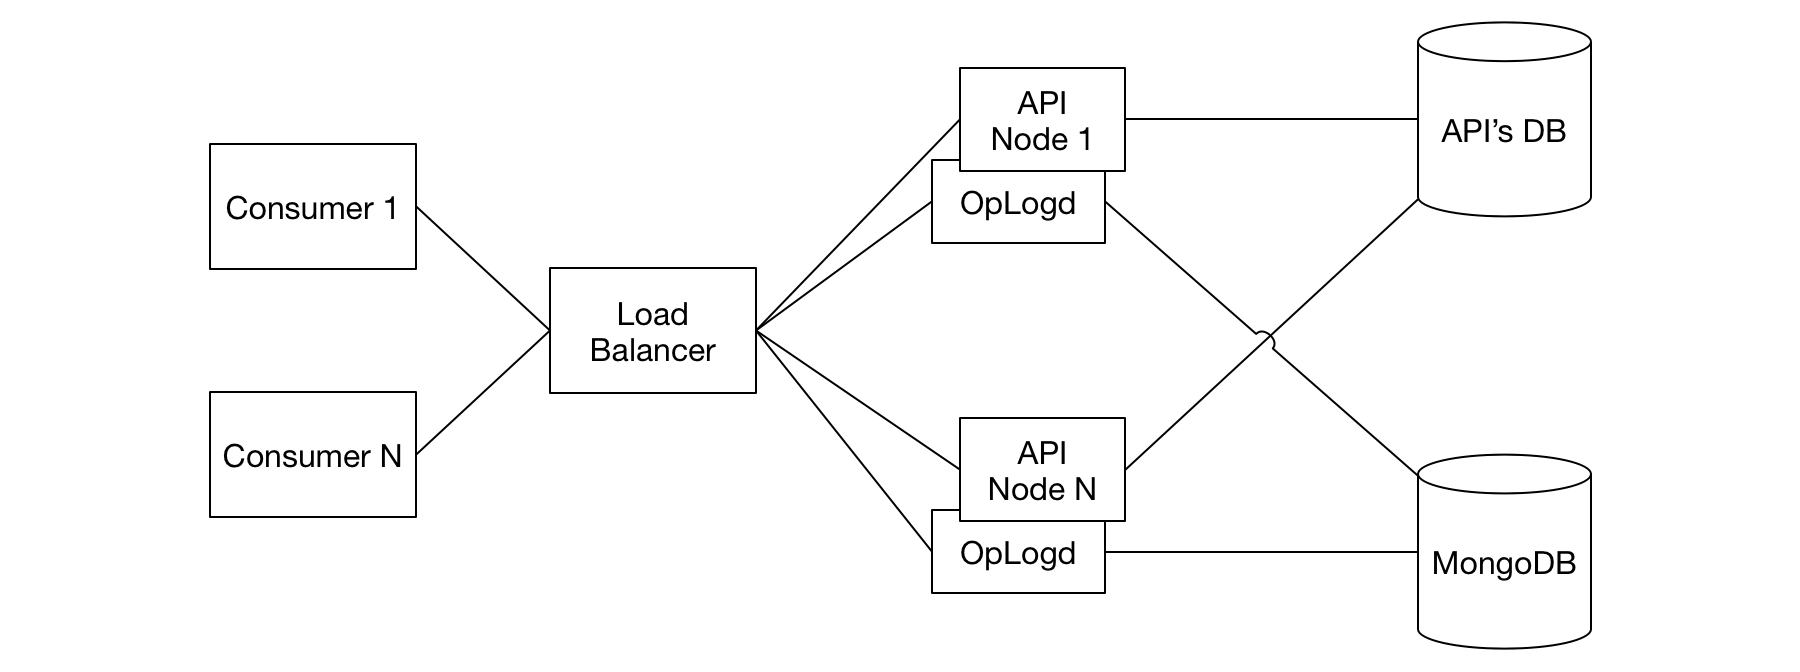
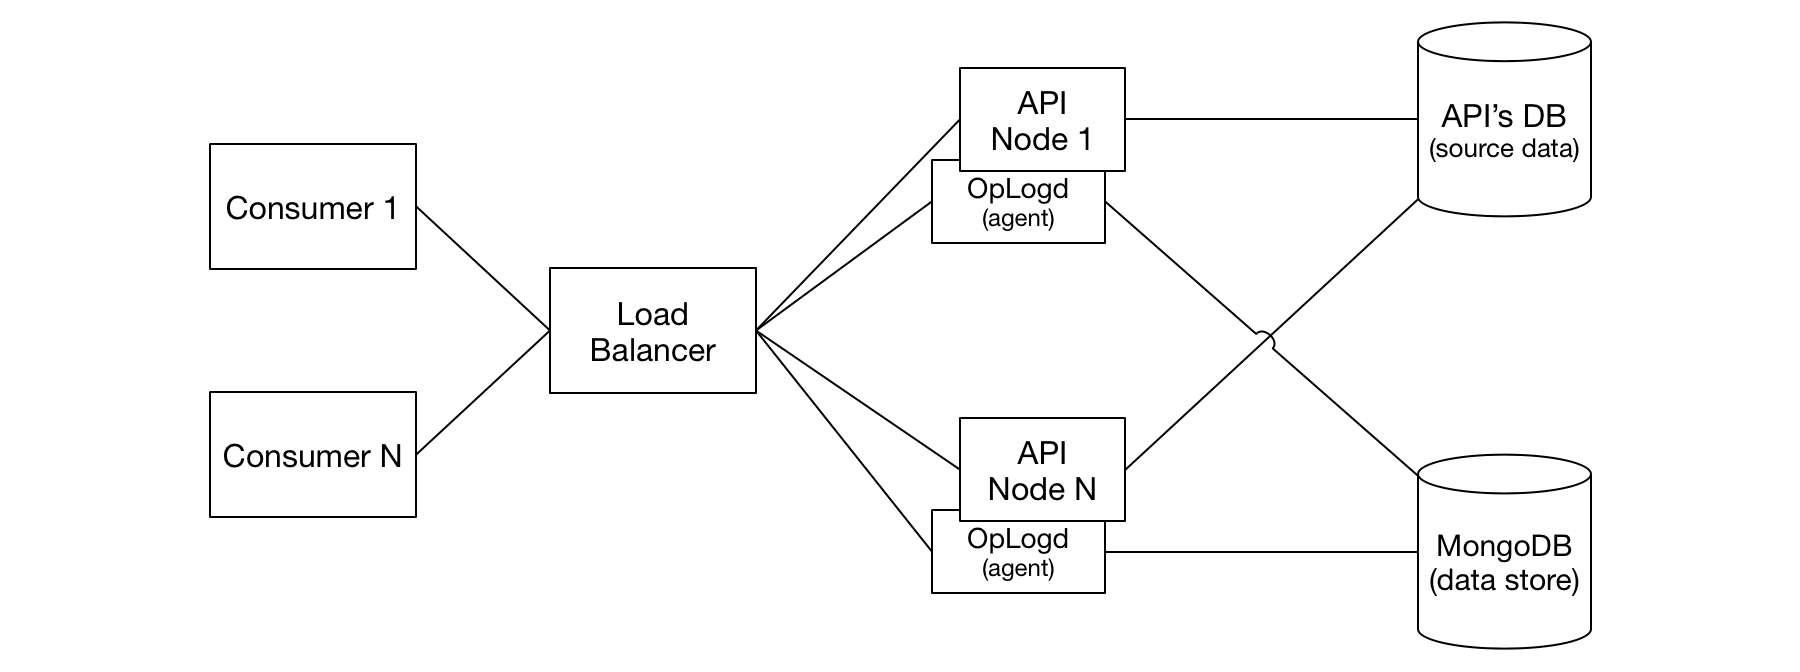
Some fixes in README

diff --git a/README.md b/README.md
@@ -1,24 +1,28 @@
 # OpLog
 
-OpLog (for operation log) is an agent meant to be used as a data real-time synchronization layer between a producer and consumers where producer is generally a REST API. It can be seen as generic database replication system for web APIs.
+OpLog (for operation log) is an agent meant to be used as a real-time data synchronization layer between a producer and consumers where producer is generally a REST API. It can be seen as generic database replication system for web APIs or as an easy way to add a public streaming API to an existing API.
 
 A typical use-case is when a component handles an authoritative database, and several independent components needs to keep an up-to-date read-only view of the data locally (i.e.: search engine indexing, recommendation engines, multi-regions architecture, etc.) or to react on certain changes (i.e.: spam detection, analytics, etc.).
 
 Another use-case is to implement a public streaming API to monitor objects changes on the service's model. With the use of [Server Sent Event](http://dev.w3.org/html5/eventsource/) and filtering, it might be used directly from the browser to monitor changes happening on objects shown on the page (à la [Meteor](https://www.meteor.com)) or from a native mobile application to keep an up-to-date offline view of the data.
 
-The agent can run locally on every nodes of a cluster producing updates to the data store. The agent receives updates via UDP from the producer application and forward them to a central data store. If the central data store is not available, updates are buffered in memory.
+The agent may run locally on every nodes of a cluster producing updates to the oplog. The agent receives updates via UDP from the producer application and forward them to a central oplog's data store (a MongoDb cluster). If the central data store is not available, updates are buffered in memory, waiting for the database cluster to be available again.
 
 ![Flow](doc/flow.png)
 
-The agent also exposes a [Server Sent Event](http://dev.w3.org/html5/eventsource/) API for consumers to be notified in real time about model changes. Thanks to the SSE protocol, a consumer can recover a connection breakage without loosing any updates.
+The agent also exposes a [Server Sent Event](http://dev.w3.org/html5/eventsource/) API for consumers to be notified in real time about model changes. Thanks to the SSE protocol, a consumer can recover a connection breakage without loosing any updates by using the `Last-Event-ID` HTTP header.
 
 A full replication is also supported for freshly spawned consumers that need to have a full view of the data.
 
-Change metadata are stored on a central MongoDB server. A tailable cursor on capped collection is used for real time updates and final state of objects are also maintained in a secondary collection for full replication support. The actual data is not stored in the oplog, the monitored API stays the authoritative source of data. Only modified object's `type` and `id` are stored together with the timestamp of the update and some related "parent" object references, useful for filtering. What you put in `type`, `id` and `parents` is up to the service, and must be meaningful to fetch the actual objects data from their API. An option reference to the modified object can provided by the oplog API if the URL schema is setup.
+Change operations are stored on a central MongoDB server. A tailable cursor on capped collection is used for real time updates and final stats of objects are also maintained in a secondary collection for full replication support. The actual data is not stored in the oplog data store ; the monitored API stays the authoritative source of data. Only modified object's `type` and `id` are stored together with the timestamp of the update and some related "parent" object references, useful for filtering. What you put in `type`, `id` and `parents` is up to the service, and must be meaningful to fetch the actual objects data from their API. An optional reference to the modified object can provided by the oplog API if the URL schema is setup (see oplogd options below).
 
-A typical deployment is to have a oplogd agent running locally on every node of a cluster serving the API to monitor. The agent serves both roles of tracking changes and serving changes to consumers. The same load balancer use to serve the API can expose the oplog SSE endpoint.
+A typical deployment is to have a oplogd agent running locally on every node of a cluster serving the API to monitor. The agent serves both roles of tracking changes and streaming changes to consumers. The same load balancer use to serve the API can expose the oplog SSE endpoint.
 
 ![Architecture](doc/archi.png)
+
+Another deployment choice may be to separate the SSE API from the event ingestion. This can be very easily done by running a separated cluster of oplogd.
+
+![Architecture](doc/archi2.png)
 
 ## Install
 
@@ -135,7 +139,7 @@ BE CAREFUL, any object absent of the dump having a timestamp lower than the most
 
 ## Status Endpoint
 
-The agent exposes a `/status` endpoint over HTTP to show some statistics about the itself. A JSON object is returned with the following fields:
+The agent exposes a `/status` endpoint over HTTP to show some statistics about itself. A JSON object is returned with the following fields:
 
 * `events_received`: Total number of events received on the UDP interface
 * `events_ingested`: Total number of events ingested into MongoDB with success
@@ -167,7 +171,7 @@ Date: Thu, 06 Nov 2014 10:40:25 GMT
 
 ## Consumer
 
-To write a consumer you may use any SSE library and consume the API by ourself. If your consumer is written in Go, a dedicated consumer library is provided.
+To write a consumer you may use any SSE library and consume the API by yourself. If your consumer is written in Go, a dedicated consumer library is provided.
 
 Here is an example of Go consumer using the provided consumer library:
 
